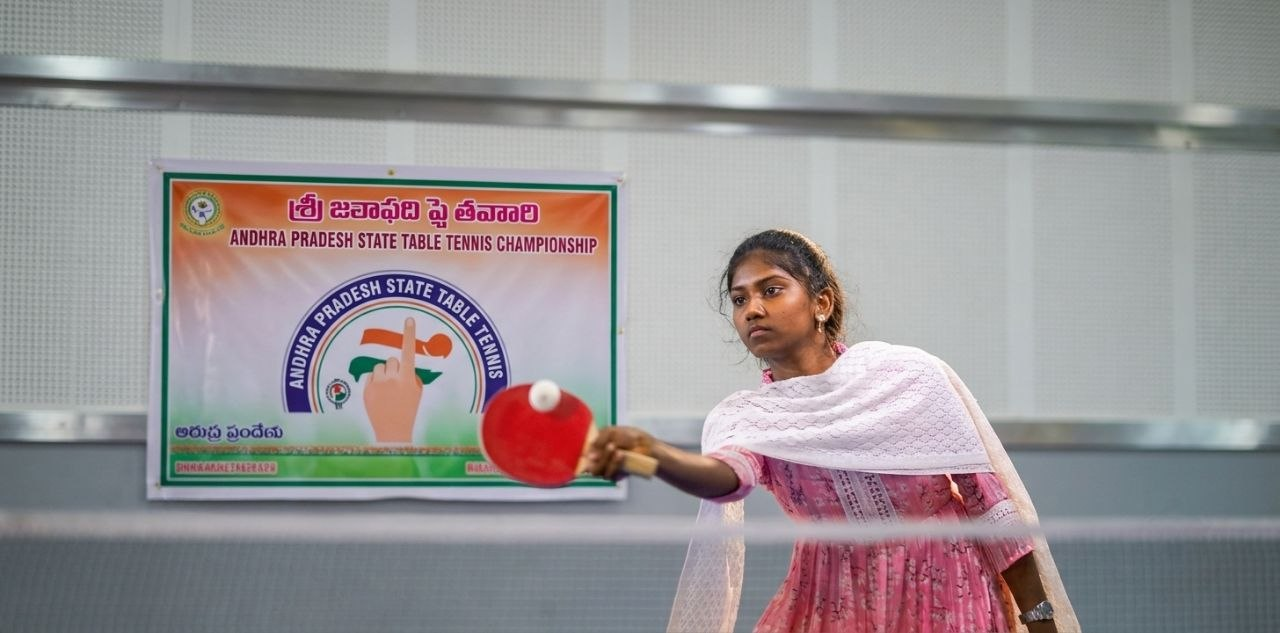
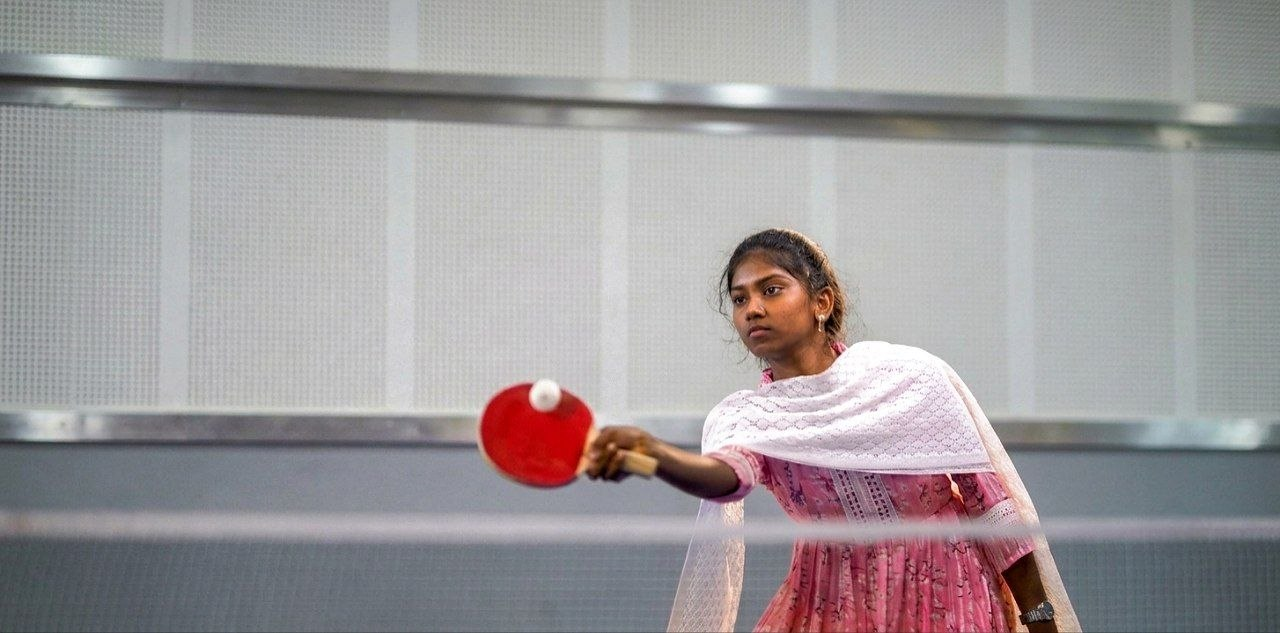
Removed extra wording and Explore button from home page hero section

diff --git a/client/src/components/Home/HeroSlider.jsx b/client/src/components/Home/HeroSlider.jsx
@@ -211,8 +211,6 @@ const HeroSlider = () => {
                                 <div className="parent-text">
                                     <div className={`info-text ${slide.alignLeft ? 'align-left' : ''}`}>
                                         <h2 dangerouslySetInnerHTML={{ __html: slide.title }}></h2>
-                                        <p>{slide.description}</p>
-                                        <a href={slide.link || '#'}>{slide.linkLabel || 'Explore'}</a>
                                     </div>
                                 </div>
                             </div>
